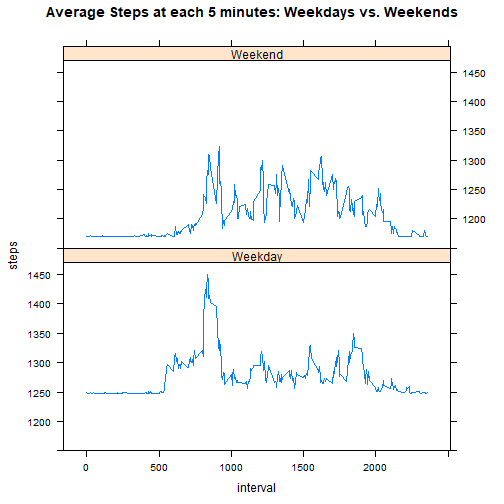
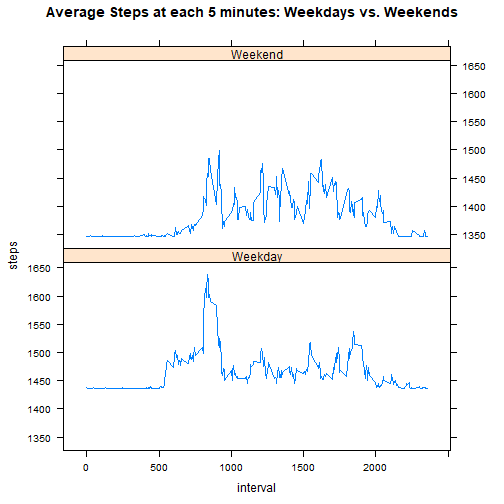
assignment reviewed

diff --git a/PA1_template.md b/PA1_template.md
@@ -24,56 +24,53 @@ act$date <- as.Date(act$date)
 
 ## What is mean total number of steps taken per day?
 
-### Total number of steps taken each day 
+1. Total number of steps taken each day 
 
-Using the dplyr package the "group_by" and "summarize" functions can give the total number of steps each day
+Using the aggregate function the total number of steps each day can be found.
 
 
 ```r
-library(dplyr)
-
-byday <- group_by(act, date)
-total <- summarize(byday, Total = sum(steps, na.rm = TRUE))
+total <- aggregate(steps ~ date, FUN=sum, data=act, na.action="na.omit")
 ```
 
-### Histogram of the total number of steps taken each day
+2. Histogram of the total number of steps taken each day
 
-A simple use of the hist function
+To contruct this plot the 'hist' function was used. 
 
 
 ```r
-hist <- hist(total$Total, breaks = 10, xlab = "Total Number of Steps", ylab = "Frequency", main = "Total Number of Steps per day")
+hist <- hist(total$steps, breaks = 10, xlab = "Total Number of Steps", ylab = "Frequency", main = "Total Number of Steps per day")
 ```
 
 ![plot of chunk firsthistogram](figure/firsthistogram-1.png)
 
-### Mean and median number of steps taken each day
+3. Mean and median number of steps taken each day
 
 To calculate the mean and mean the following code was used. 
 
 ```r
-mn <- mean(total$Total)
+mn <- mean(total$steps)
 mn
 ```
 
 ```
-## [1] 9354.23
+## [1] 10766.19
 ```
 
 ```r
-mdn <- median (total$Total)
+mdn <- median (total$steps)
 mdn
 ```
 
 ```
-## [1] 10395
+## [1] 10765
 ```
-Therefore, the mean and median were 9354.2295082 and 10395 respectively 
+Therefore, the mean and median were 1.0766189 &times; 10<sup>4</sup> and 10765 respectively 
 
 
 ## What is the average daily activity pattern?
 
-### Time series plot of the 5-minute interval (x-axis) and the average number of steps taken, averaged across all days (y-axis)
+1. Time series plot of the 5-minute interval (x-axis) and the average number of steps taken, averaged across all days (y-axis)
 
 For this, I decided to use the aggregate function this time, to familiarize myself with it. 
 
@@ -86,7 +83,7 @@ plot1 <- plot(int$interval, int$steps, type = "l", xlab = "interval", ylab = "st
 
 ![plot of chunk timeseries1](figure/timeseries1-1.png)
 
-### Which 5-minute interval, on average across all the days in the dataset, contains the maximum number of steps?
+2. Which 5-minute interval, on average across all the days in the dataset, contains the maximum number of steps?
 
 To answer this question the subset function was used. This function subsetted the row of the interval column corresponding to the largest number on the steps column. 
 
@@ -100,7 +97,7 @@ The interval that contains the maximum number of steps is 835
 
 ## Imputing missing values
 
-###  Total number of missing values in the dataset
+1. Total number of missing values in the dataset
 
 To check how many NA there are in the dataset, the summary function is enough 
 
@@ -120,33 +117,46 @@ summary(act)
 ```
 There are 2304 NA's in the dataset
 
-### Filling the missing values and creating new dataset with no NA's 
+2. Filling the missing values and creating new dataset with no NA's 
 
-
+The NAs were filled using the mean. With the summary function, it was proved that there is no NAs on the dataset anymore
 
 ```r
 actnona <- read.table(unz("activity.zip", "activity.csv"), sep=",", header = TRUE)
 actnona[is.na(actnona)]<- mn 
-summary(act)
+
+summary(actnona)
 ```
 
 ```
-##      steps             date               interval     
-##  Min.   :  0.00   Min.   :2012-10-01   Min.   :   0.0  
-##  1st Qu.:  0.00   1st Qu.:2012-10-16   1st Qu.: 588.8  
-##  Median :  0.00   Median :2012-10-31   Median :1177.5  
-##  Mean   : 37.38   Mean   :2012-10-31   Mean   :1177.5  
-##  3rd Qu.: 12.00   3rd Qu.:2012-11-15   3rd Qu.:1766.2  
-##  Max.   :806.00   Max.   :2012-11-30   Max.   :2355.0  
-##  NA's   :2304
+##      steps           date              interval     
+##  Min.   :    0   Length:17568       Min.   :   0.0  
+##  1st Qu.:    0   Class :character   1st Qu.: 588.8  
+##  Median :    0   Mode  :character   Median :1177.5  
+##  Mean   : 1444                      Mean   :1177.5  
+##  3rd Qu.:   57                      3rd Qu.:1766.2  
+##  Max.   :10766                      Max.   :2355.0
 ```
+
+3. Histogram after removing the NAs 
+
+Same construction as the first one, only this time using the new dataset
+
+
+```r
+totalnona <- aggregate(steps ~ date,FUN=sum, data = actnona)
+
+hist2 <- hist(totalnona$steps, xlab = "Total Number of Steps", ylab = "Frequency", main = "Total Number of Steps per day (NAs filled)")
+```
+
+![plot of chunk histogramnona](figure/histogramnona-1.png)
 
 ## Are there differences in activity patterns between weekdays and weekends?
 
 
-### "Create a new factor variable in the dataset with two levels – “weekday” and “weekend” indicating whether a given date is a weekday or weekend day."
+1. "Create a new factor variable in the dataset with two levels – “weekday” and “weekend” indicating whether a given date is a weekday or weekend day."
 
-The first thing is to transform the date column of the data frame with no NA's in date format. Then, create two factor vectors  containing the weeekdays from the data frame and binding them as columns to the data frame. 
+The first thing is to transform the date column of the data frame with no NA's (actnona) in date format. Then, create two factor vectors  containing the weeekdays from the data frame and binding them as columns to the data frame. 
 
 To create a factor column indicating if it is weekday or weekend, the which function was used. The function takes the wd column and checks for "Sunday" or "Saturday" words and for them, it changes the corresponding rows on the column "daytype" to "Weekend" 
 
@@ -160,7 +170,7 @@ actwd$daytype[which(actwd$wd %in% c("Saturday", "Sunday"))] <- "Weekend"
 rm(daytype)
 ```
 
-### "Make a panel plot containing a time series plot (i.e. type = "l") of the 5-minute interval (x-axis) and the average number of steps taken, averaged across all weekday days or weekend days (y-axis). See the README file in the GitHub repository to see an example of what this plot should look like using simulated data."
+2. "Make a panel plot containing a time series plot (i.e. type = "l") of the 5-minute interval (x-axis) and the average number of steps taken, averaged across all weekday days or weekend days (y-axis). See the README file in the GitHub repository to see an example of what this plot should look like using simulated data."
 
 First use aggregate to split the data and calculate mean. The steps data is y and interval is x. But the steps column is being split by daytype and interval and the mean is applied to steps. 
 
